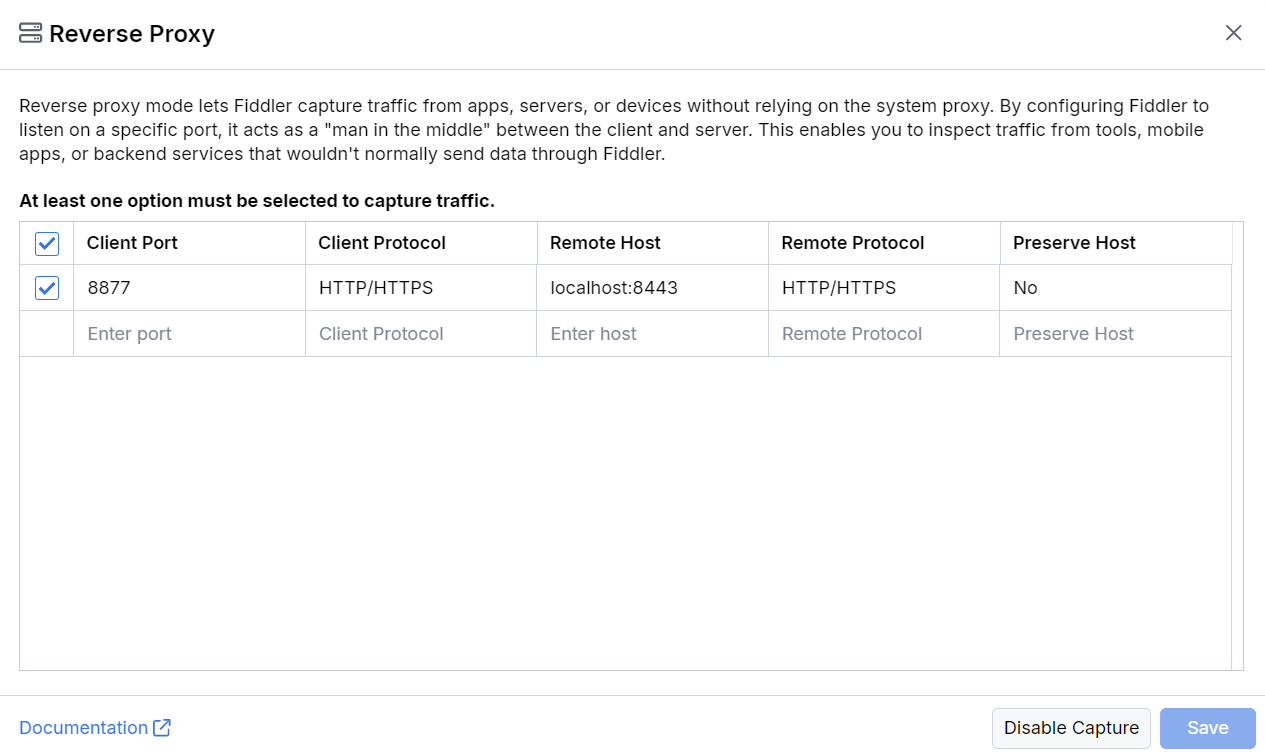
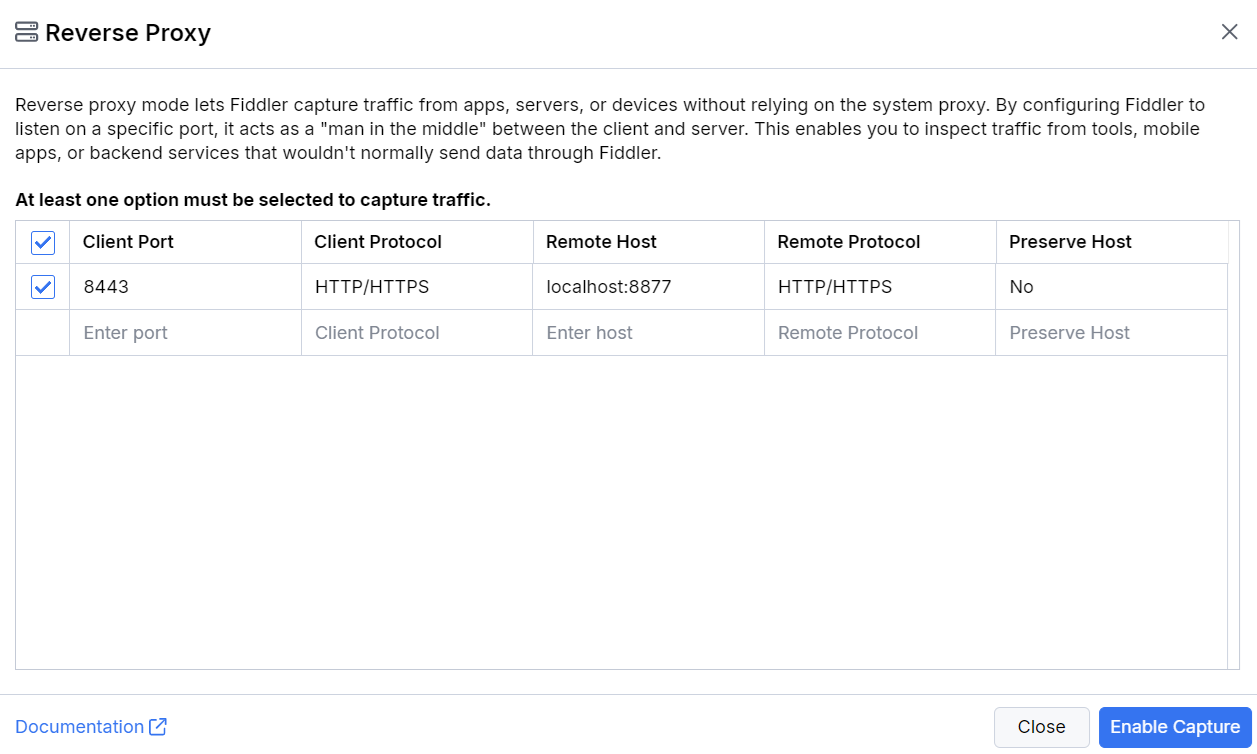
docs: reverse proxy article revision

diff --git a/capture-traffic/reverse-proxy.md b/capture-traffic/reverse-proxy.md
@@ -12,25 +12,58 @@ previous_url: /knowledge-base/fiddler-as-reverse-proxy
 
 Fiddler Everywhere can act as a reverse proxy, allowing you to inspect, debug, and modify HTTP(S) requests sent to your server. This is especially useful for developers, QA, and support engineers who need to analyze how their server handles client requests without the complexity of setting up a dedicated reverse proxy solution.
 
-This article explains how to use Fiddler Everywhere as a reverse proxy, either through the built-in **Reverse Proxy** feature (recommended) or by creating a custom rule. You'll also find a demo setup and troubleshooting tips.
+This article explains how to use Fiddler Everywhere as a reverse proxy through the built-in **Reverse Proxy** feature. You'll also find a demo setup and troubleshooting tips.
 
 >note For most users, the built-in Reverse Proxy feature is the simplest and most robust approach.
 
-## Demo: Client and Server Applications
+## Reverse Proxy for Local Servers
 
-Before configuring Fiddler, here's a simple example of a web application making HTTP requests to a local server on port `8443`.
+The built-in **Reverse Proxy** feature lets you quickly set up a reverse proxy for localhost or remote servers. Follow these steps:
 
-**Client Example:**
+1. Start Fiddler Everywhere.
+2. Click the **Reverse Proxy** button.
+3. Enter the targeted port in the `Client Port` field (e.g., `8443`).
+4. Select the client protocol (default: `HTTP/HTTPS`).
+5. Enter the **remote host address** and **port** in the `Remote Host` field (e.g., `localhost:8877`).
+    >important The custom port configured in the `Remote Host` field must differ from the port used by the Fiddler Everywhere proxy (configured through the **Settings > Connections > Fiddler listens on port** option).
+6. Select the remote protocol (default: `HTTP/HTTPS`).
+7. Choose whether to preserve the host header (default: `No`).
+8. Save your changes.
+
+![Reverse proxy setup in Fiddler Everywhere](../images/reverse/reverse-proxy-setup-001.png)
+
+**Update your server application to use the custom port:**
+
+```javascript
+/* 
+    By default, the server works on port 8443 
+    // const serverPort = 8443;
+    // server.listen(serverPort); 
+    However, in this case, we are using Fiddler to reverse proxy the requests to port 8877
+*/
+const reverseProxyPort = 8877;
+server.listen(reverseProxyPort); 
+
+console.log(`Server listening on port: ${reverseProxyPort}`);
+```
+
+>note When both the client and server run on the same host (like `localhost`), you must use a custom port for the server app. The above can be tested while using our [demo application](#demo-client-and-server-applications).
+
+![Captured traffic through reverse proxy](../images/reverse/reverse-proxy-setup-002.png)
+
+### Demo: Client and Server Applications
+
+The above configuration is based on the following web application that makes HTTP requests to a local server on port `8443`.
+
+**Client Application Example:**
 
 ```javascript
 const XMLHttpRequest = require("xmlhttprequest").XMLHttpRequest;
+
 const xmlHttp = new XMLHttpRequest();
 try {
-    xmlHttp.open("GET", 'http://localhost:8443/jsonData', false); 
-    /* 
-        Note: With the current setup the client app directly communicates with the server.
-        For the client app to go through the localhost proxy, the port must be modified (details below)
-    */
+    /*  The server port is 8443 */
+    xmlHttp.open("GET", 'http://localhost:8443/jsonData', false);
 
     xmlHttp.setRequestHeader('content-type', 'application/json');
     xmlHttp.setRequestHeader('custom-header', 'Nick Iliev');
@@ -43,27 +76,46 @@ try {
 }
 ```
 
-**Server Example:**
+**Server Application Example:**
 
 ```javascript
 const http = require('http');
-const server = http.createServer((req, res) => {
+const fs = require('fs');
+
+http.createServer()
+
+const server = http.createServer(null, (req, res) => {
+});
+
+server.on('error', (err) => console.error(err));
+server.on('request', (req, res) => {
     const path = req.url;
     const method = req.method;
+
     if (path === "/jsonData" && method == 'GET') {
         res.writeHead(200, 'Success',  {
             'Content-Type': 'application/json',
             'Access-Control-Allow-Origin': '*',
             'Access-Control-Allow-Headers': '*'
         });
+
         const returnData = {
             user: '90c96789-95e0-48fd-af70-43673d547d68',
-            preferences: { theme: 'dark', rememberMe: true }
+            preferences: {
+                theme: 'dark',
+                rememberMe: true
+            }
         };
+
         res.end(JSON.stringify(returnData));
     } 
 });
-server.listen(8443);
+
+// this port must be explicitly changed when using Fiddler as a reverse proxy
+const serverPort = 8443;
+server.listen(serverPort);
+
+console.log(`Server listening on port: ${serverPort}`);
 ```
 
 The application can be started as follows:
@@ -73,80 +125,77 @@ node server.js
 node app.js
 ```
 
-The demo application above runs a server and a client application on port 8443. By default, Fiddler will not capture traffic on port 8443 unless configured as a reverse proxy or through the network capturing mode.
+The demo application above runs a server and a client application on port **8443**. By default, Fiddler will not capture traffic on port 8443 unless configured as a reverse proxy or through the network capturing mode.
 
-## Using Fiddler's Reverse Proxy (Recommended)
+## Reverse Proxy for Remote Web Servers
 
-The built-in **Reverse Proxy** feature lets you quickly set up a reverse proxy for localhost or remote servers. Follow these steps:
+So far we demonstrated the configuration needed to create a reverse proxy for local servers which is convenient when Fiddler is hosted on the server machine or when testing development scenarios on `localhost`. However, another common scenario that developers often face is the need to test remote servers - here is where Fiddler Everywhere can once more be used alongside its reverse proxy mode.
 
-1. **Start Fiddler Everywhere.**
-2. Click the **Reverse Proxy** button.
-3. Enter a custom port in the `Client Port` field (e.g., `8877`).
-4. Select the client protocol (default: `HTTP/HTTPS`).
-5. Enter the remote host and port (e.g., `localhost:8443` where the port is `8443` as in the [demo application](#demo-client-and-server-applications)).
-6. Select the remote protocol (default: `HTTP/HTTPS`).
-7. Choose whether to preserve the host header (default: `No`).
-8. Save your changes.
+In this scenario, we will test against [www.example.com](https://www.example.com) through the following configuration steps:
 
-![Reverse proxy setup in Fiddler Everywhere](../images/reverse/reverse-proxy-setup-001.png)
+**Map the remote server to your local machine**
 
-**Update your client application to use the new port:**
+Configure the `hosts` file on your OS to map `www.example.com` to `127.0.0.1`. 
 
-```javascript
-xmlHttp.open("GET", 'http://localhost:8877/jsonData', false); // Changing the port from 8443 to 8877 (the port on which the reverse proxy listens)
+```cmd
+# Add entry to hosts file
+echo 127.0.0.1 www.example.com >> C:\Windows\System32\drivers\etc\hosts
+
+# Verify the entry was added
+type C:\Windows\System32\drivers\etc\hosts | findstr example.com
+
+# Flush DNS cache to apply changes
+ipconfig /flushdns
 ```
 
->note When both the client and server run on the same host (like `localhost`), you must use a custom port for the client app.
+**Configure the reverse proxy for the mapped remote server**
 
-![Captured traffic through reverse proxy](../images/reverse/reverse-proxy-setup-002.png)
+Configure the reverse proxy rule for the remote server (e.g. for `www.example.com`).
 
-### Reverse Proxy Options Explained
+- Use a service to obtain the IP address of the targeted remote server. In our case, we will use IP address `93.184.216.34` which currently stands for the server behind `www.example.com`
+- Add reverse proxy rules that sets `443` and `80` within the `Client Port` field alongside the IP address of the targeted server within the `Remote Host` field.
 
-- **Client Port:** Port for client requests (use a custom port for localhost scenarios).
-- **Client Protocol:** Protocol used by the client (HTTP, HTTPS, or both).
-- **Remote Host:** Address and port of the target server.
-- **Remote Protocol:** Protocol used by the server.
-- **Preserve Host:** Whether to keep the original `Host` header (set to `Yes` only if required by your server).
+![Setting up the reverse proxy rules for the remote host](../images/reverse/reverse-proxy-remote-server-001.png)
 
-### Reverse Proxy Alongside Other Capturing Modes
+**Testing the reverse proxy configuration**
+
+Once the above configuration is in place, you can trigger a request to `www.example.com` through a client app like a browser or curl and observe the request being captured in Fiddler.
+
+```sh
+curl -k www.example.com
+```
+
+![Testing the reverse proxy rules for the remote host](../images/reverse/reverse-proxy-remote-server-002.png)
+
+## Reverse Proxy Options Explained
+
+The built-in **Reverse Proxy** provides the following configurable options:
+
+- **Client Port:** Port for client requests. Use a custom port for localhost scenarios to avoid conflicts.
+- **Client Protocol:** Protocol used by the client application. Options include **HTTP**, **HTTPS**, or **HTTP/HTTPS** (default).
+- **Remote Host:** Address and port of the target server (e.g., `localhost:8877` or `192.168.1.100:80`).
+- **Remote Protocol:** Protocol used by the remote server. Options include **HTTP**, **HTTPS**, or **HTTP/HTTPS** (default).
+- **Preserve Host:** Whether to keep the original `Host` header. Set to `Yes` only if your server requires the original host information.
+
+## Reverse Proxy Alongside Other Capturing Modes
 
 The reverse proxy can be used alongside other [capturing modes]({%slug capture-traffic-get-started%}). The immediate effect of using the reverse proxy simultaneously with other capturing modes is that you will observe the same request being captured and listed twice in the Fiddler's live traffic grid — once when going through the reverse proxy mode and once when going through the alternative forward proxy mode.
 
-## Creating a Reverse Proxy Rule (Alternative)
-
-You can create a custom reverse proxy rule if you need more control or want to proxy only specific requests. This method works for HTTP/1.x traffic and must be used only as an alternative to the built-in reserve proxy feature and not alongside it.
-
-1. Change your client app to use Fiddler's default port (e.g., `8866`):
-    ```javascript
-    xmlHttp.open("GET", 'http://localhost:8866/jsonData', false);
-    ```
-2. In Fiddler, open the **Traffic** pane and go to the **Rules** tab.
-3. Click **Add Rule** and create a rule to redirect requests from port `8866` to your server's port (`8443`).
-4. Enable the rule and the **Rules** tab.
-5. Start your server on port `8443` and run your client app.
-
-![Reverse proxy rule for HTTP requests](../images/kb/reverse-proxy/reverse-proxy-http.png)
-
-### For HTTPS Servers
-
-To test HTTPS servers without changing your client to use HTTPS:
-
-- Use the same steps as above, but add an action in your rule to change HTTP requests to HTTPS.
-- Start your HTTPS server on port `8443`.
-- Run your client app with HTTP and port `8866`.
-
-![Reverse proxy rule for HTTPS requests](../images/kb/reverse-proxy/reverse-proxy-https.png)
-
-> **Tip:** To avoid certificate errors, enable **Ignore server certificate errors (unsafe)** in **Settings > HTTPS**.
-
 ## Troubleshooting & Best Practices
 
-- Always use a custom client port for `localhost` reverse proxy scenarios.
+### Common Issues and Solutions
+
+- **Traffic not captured:** Ensure Fiddler is running and the correct port and protocol are set in Fiddler's Reverse Proxy settings.
+- **Connection refused errors:** Verify that your server is running on the configured port.
+- **Certificate errors (HTTPS):** Trust the Fiddler root certificate or enable **"Ignore server certificate errors"** in **Settings > HTTPS**.
+
+### Best Practices
+
+- Always use a custom server or client port for `localhost` reverse proxy scenarios.
 - Double-check port numbers in your client and server code.
-- For HTTPS, trust the Fiddler root certificate or use the **"Ignore server certificate errors"** option.
-- Ensure Fiddler is running before sending requests.
-- If traffic is not captured, verify that the correct port and protocol are set in Fiddler's Reverse Proxy settings.
-- The [custom rule approach](#creating-a-reverse-proxy-rule-alternative) works only for HTTP/1.x traffic.
+- Test your configuration with simple tools like `curl` before using complex applications.
+- Keep a backup of your hosts file before making changes.
+- Use descriptive comments in your code when changing ports for reverse proxy scenarios.
 
 ## Additional Resources
 
